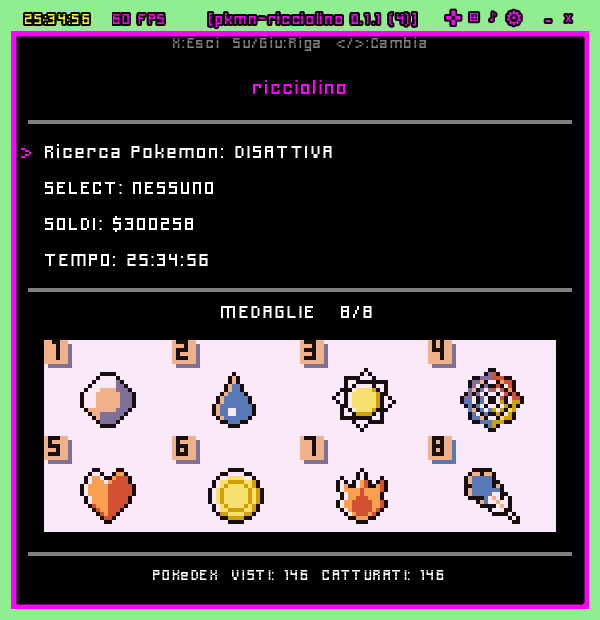
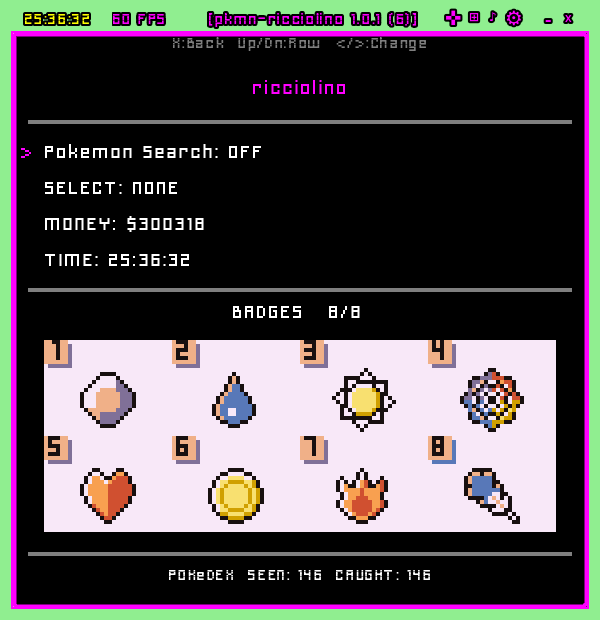
README: due GIF al posto di una, e tutti i media rifatti in inglese su 1.0.1 (6)
I media erano in italiano e vecchi: `battle.png` mostrava LOTTA/ZAINO/POKEMON/FUGA
e la scheda allenatore era tutta tradotta, mentre il README attorno e' in inglese.
E tutte e quattro portavano `0.1.1 (4)` nella barra in alto, due rilasci fa.

Rifatti dall'utente in inglese e ricatturati su 1.0.1 (6):
- title.png, overworld.png, battle.png (FIGHT/BAG/PKMN/RUN), trainer-card.png
- demo.gif sostituita da DUE GIF affiancate: intro.gif (boot, titolo e
  l'introduzione fino a Nuova Partita) e gameplay.gif (overworld e lotte)

Sulle GIF: tavolozza PIENA, non ridotta. Un primo giro con `max_colors=32` aveva
sbiadito i colori — CHARMANDER diventava rosa — perche' `palettegen` costruisce
UNA tavolozza per tutto il clip, e 32 colori non bastano a coprire logo, titolo,
intro e lotte insieme. Verificato male la prima volta, su un fotogramma solo che
per caso era la schermata del titolo, dove i colori sono quattro: un campione non
e' una verifica. La seconda volta misurando la saturazione su quattro istanti
sparsi, dove il 32 perdeva fino al 28%.

Ricetta: `fps=12, scale=480:-1:flags=neighbor` (vicino piu' prossimo, obbligatorio
su pixel art), `palettegen=stats_mode=full`, `paletteuse=dither=none:diff_mode=rectangle`.
Provata anche la WebP animata, che sulla carta doveva vincere: 19 MB lossless,
7,1 a q90 contro 1,8 della GIF. Su pixel art quasi ferma il diff_mode=rectangle
batte l'inter-frame di libwebp.

Pagina: 7,1 MB di GIF contro i 2,8 di prima. Scelta dell'utente, consapevole.

diff --git a/README.md b/README.md
@@ -5,7 +5,8 @@ It is a **Red + Blue fusion**, rebuilt tile by tile so that the whole Pokédex c
 completed in a single playthrough — plus a few liberties of my own.
 
 <p align="center">
-  <img src="media/demo.gif" alt="pkmn-ricciolino — gameplay" width="480">
+  <img src="media/intro.gif"    alt="Boot sequence, title screen and the opening"  width="46%">
+  <img src="media/gameplay.gif" alt="Walking the overworld and a trainer battle"   width="46%">
 </p>
 
 <p align="center">
